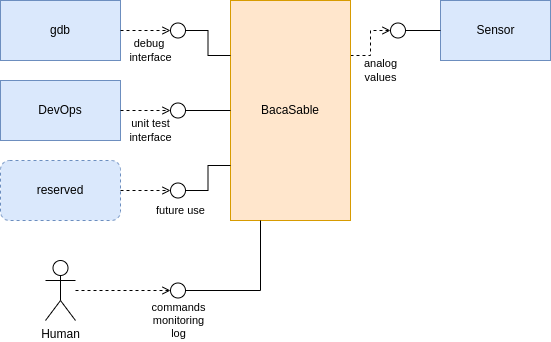
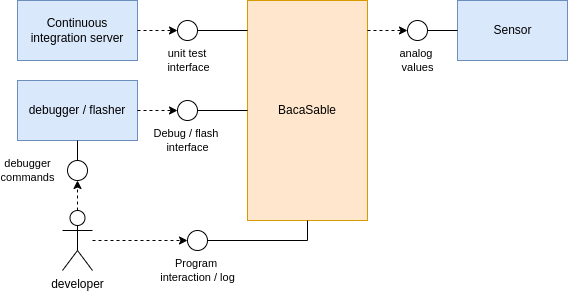
Fixed business and technical contextes
Create link between business and technical contextes
Description about technical interfaces decisions or
why those ones. Relift of diagrams

Changed region(s): [[0.0, 0.0, 1.0, 1.0], [0.0617, 0.9555, 0.1851, 1.0], [0.8639, 0.0616, 0.9564, 0.1233]]

diff --git a/01_Analysis/03_system_scope_and_context.md b/01_Analysis/03_system_scope_and_context.md
@@ -1,20 +1,21 @@
 # System Scope and Context
 
-The project is limited to a simple program in one hardware device, as cheap as possible because our aim is not to reach fancy performances, but to understand the impact of the quality of our code and of our architecture.
+The project is limited to a simple program in one hardware device, as cheap as possible because our aim is not to reach fancy performances, but to understand the impact of the quality of our code and architecture.
 
-Our product is a mere simple hardware, which will be programmed and flashed from a simple UNIX/Linux computer, it will have some interactions with ourselves, through a simple communication, but also with a debug/continuous integration server.
+Our product is a mere simple hardware, which will be programmed and flashed from a simple UNIX/Linux computer, it will have some interactions with the developer, through a serial (UART) communication, but also with a debug/continuous integration server.
 
-An interface with the real physical world may also bring some unexpected behavior to our program. That is why adding one or more sensors will be done
+ **Optional interfaces**  
 
-As the need to learn new technologies will surely change in the future, an full list of interfaces can't be fixed. On the contrary, we should add some spare hardware/software interfaces for future use.
+An interface with the real physical world may also bring some unexpected inputs to our program. That is why adding one or more sensors may be done
 
+As the need to learn new technologies will surely change in the future, an full list of interfaces can't be fixed. On the contrary, some future hardware/software interfaces are to be considered while describing interfaces to our external world.
+
+***
 ## Business Context
 
-There is no special business context as our aim is to show some technical skills instead of developing a business model and win money
+In the business context, we find the interface to outside world, which are mandatory to fulfill our functional requirements. For example, to apply DevOps development process, we need a unit test interface for the continuous integration server.
 
-For this reason, a full specification of business model can't be fixed here, but a direction about what will be done is described in this paragraph anyway.
-
-**Technical context diagram:**  
+**Business context diagram:**  
 
 ![Categories of Quality
 Requirements](images/Business_context.png)
@@ -23,26 +24,18 @@ Requirements](images/Business_context.png)
 
 |Interface| purpose | required by | provided by |
 |:-:|:-|:-:|:-:|
-|Debug | Provide an interface to debug target from a remote host | dbg server | BacaSable |
-|unit test | Interface to execute automatized unit tests on target with a continuous integration server | DevOps | BacaSable |
-| Commands | Allow human to read info or send commands to target while running | human | BacaSable |
-| Analog values | Provide values coming from physical world and play with it | BacaSable | Sensor |
-| future use | Future use of BacaSable for new coming features. Other technologies may be desired to be implemented, so represent an unknown entity helps to keep in mind about those future use | ? | ? |
+| Debug / flash | Provide an interface to debug, analyze and flash program on target from a remote host | debugger / flasher | BacaSable |
+| Unit test | Interface to execute automatized unit tests on target | continuous integration server  | BacaSable |
+| program control / log | Allow human to read log (output from program) or send commands to interact with target while running | developer | BacaSable |
+| Analog values | Provide an input of unexpected values from physical world and play with it | BacaSable | Sensor |
 
 
+***
 ## Technical Context
 
-We need communication means which allows us to debug, flash and analyze what is happening on our hardware.  
-To be able to have some interaction with the target, while running, the product need a simple in/out communication which may always work.  
-Finally, a "close to hardware" interface is also wished, because we want to build some embedded, hardware-close (almost analog) real-time OS.
+We need technical means which allows us to debug, flash and analyze what is happening on our hardware. Those means are described here. Maybe more than one element from business model runs on the same technical mean.  
 
-
-There are 4 main communication interfaces:
- - ssh for flashing, debugging and analysis of code
- - UART or SPI, may also be I2C, a simple embedded communication mean for communication with external world, it will be used by human user
- - ADC, Analog to Digital Converter as we seek to have some random info which need to be periodically polled
-
-As our aim is to not to master a special communication protocol or develop a fancy Internet stack, the communications are mainly easy and present on every electronic board/uC/uP.
+As our aim is to not to master a special communication protocol or develop a fancy Internet stack, the communications shall remain easy and present on the electronic board/uC/uP.
 
 
 **Technical context diagram:**  
@@ -53,10 +46,27 @@ Requirements](images/Technical_context.png)
 
 **list of interfaces and their descriptions:**  
 
-|Interface| purpose | Technical mean | in/out |
-|:-:|:-|:-:|:-:|
-|Debug | Provide an interface to debug target from a remote host | ssh? | in/out |
-|unit test | Interface to execute automatized unit tests on target with a continuous integration server |  ssh? | in/out |
-| Commands | Allow human to read info or send commands to target while running | UART or SPI | out |
-| Analog values | Provide values coming from physical world and play with it | ADC | in |
-| future use | Future use of BacaSable for new coming features | Available interfaces | ? |
+ - **Debug / flash:**  
+ To flash or debug, it is generally a JTAG interface, but depending on target's hardware, it may also be ssh or USB.
+
+ - **Unit test:**  
+For unit testing, the server will have to flash on target and get results from debug port. So it is the same interface as **Debug / flash**
+
+ - **program control:**  
+To be able to have some interaction with the target, while running, the product need a simple in/out communication which may always work. UART or SPI, may also be I2C, will do.
+
+ - **Analog values:**  
+ADC, Analog to Digital Converter over a serial communication. It may be SPI (Quad SPI maybe) or simple GPIOs. It is a board peripheral.
+
+ - **Future use:**  
+Many GPIOs will still remain available, as well as potential serial communication and may be used in the future to interface with other boards or new peripherals.
+
+**Resulting table of interfaces:**
+
+| Business interface | Technical mean | in/out | Remarks |
+|:-|:-:|:-:|:-|
+| Debug / flash | USB | in/out | may change for JTAG. USB for RP2040 uC |
+| unit test | USB | in/out | USB for RP2040 uC |
+| Commands |  UART over UNIX's ttys | out | Use of terminal or any serial reader program |
+| Analog values | ADC over serial (SPI or GPIOs) | in | - |
+| future use | GPIOs / serial comm | in/out | _optional_ |
